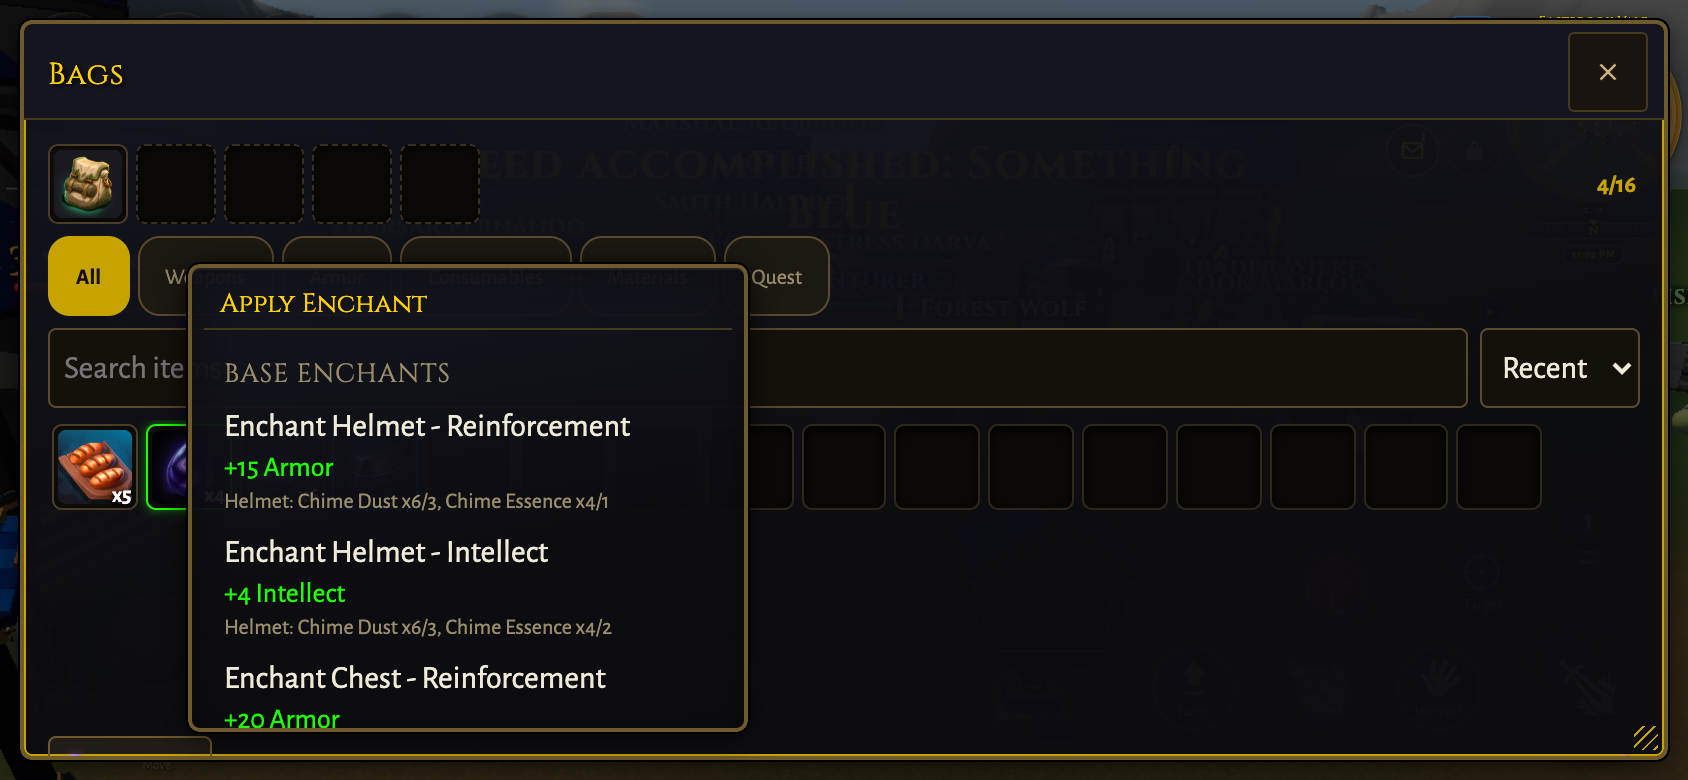
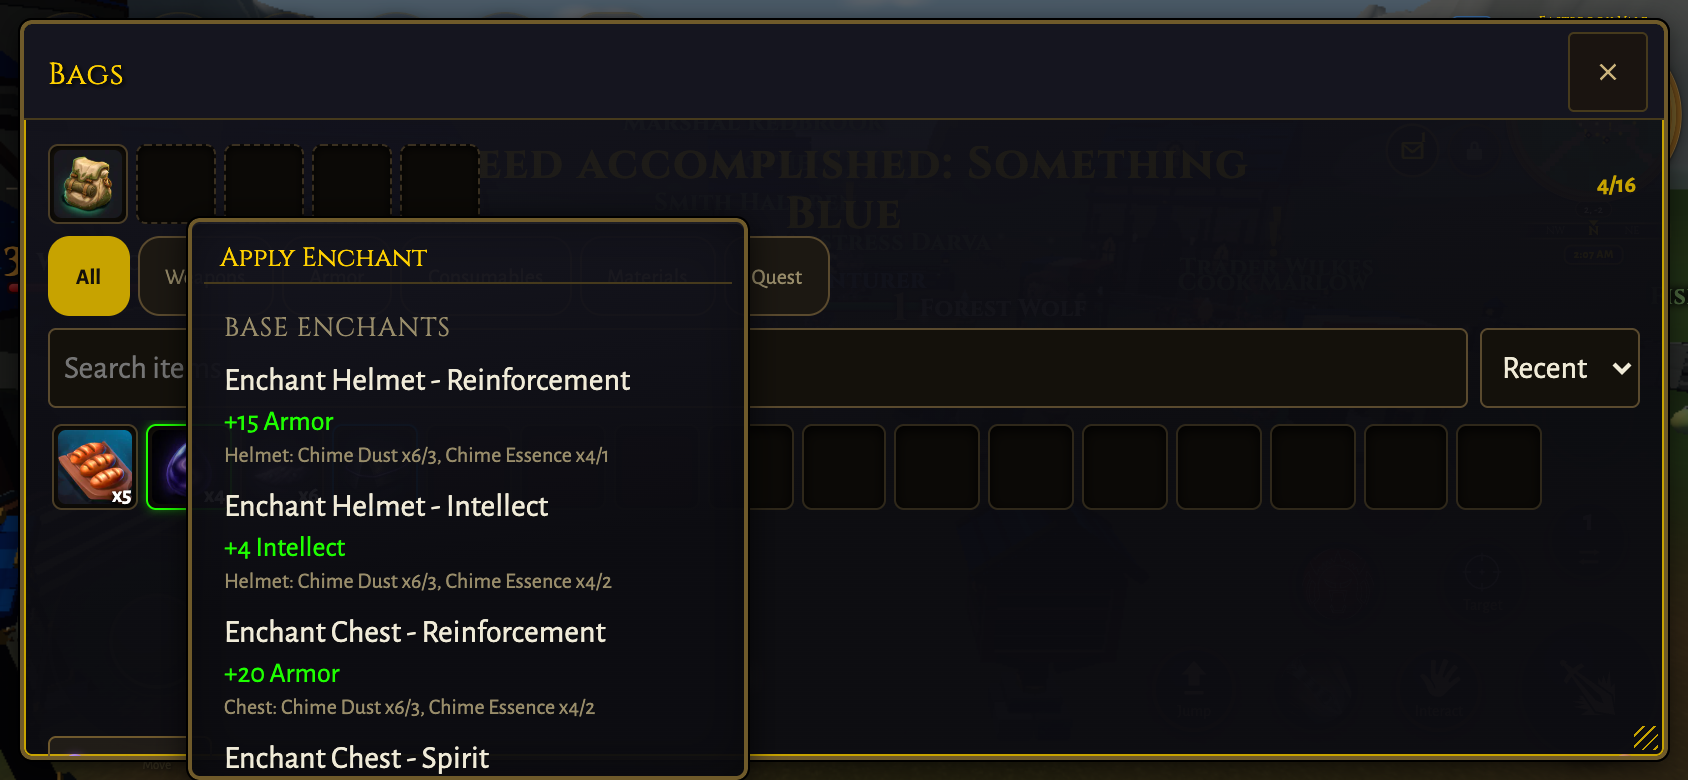
fix(ui): act on the #2404 review nits
Raises the mobile picker cap from 0.6 to 0.72 of the app viewport. The
review flagged that a picker row now carries three lines, so the original
fraction showed barely two and a half rows on a landscape phone; 0.72
shows three full rows plus the start of a fourth, and is still a genuine
fraction well short of the full-height box the cap exists to prevent.
The updated mobile screenshot shows the difference.

Pins the reagent UNIVERSE the tier rules recognize, rather than trusting
the id naming convention the review called out as silently
misclassifiable. A reagent that is neither the shard, a resonant, nor a
known base material now fails the guard loudly at the point where
enchantTier would have quietly read it as Base, with the failure message
naming the enchant and the fix. Verified the guard actually reds on an
off-convention reagent rather than being decorative.

Changed region(s): [[0.0924, 0.4615, 0.4621, 1.0], [0.0924, 0.2769, 0.4621, 0.4308]]

diff --git a/tests/enchant_apply_view.test.ts b/tests/enchant_apply_view.test.ts
@@ -153,6 +153,46 @@ describe('enchant_apply_view: tier classification', () => {
   it('an unknown enchant id falls back to Base rather than throwing', () => {
     expect(enchantTier('not_a_real_enchant')).toBe('base');
   });
+
+  // Review nit (#2404): the tier is inferred from reagent ids rather than an
+  // explicit EnchantDef field, so a future reagent that follows neither
+  // convention would silently read as Base. Pin the reagent UNIVERSE instead of
+  // trusting the convention: adding a reagent that is neither the shard, a
+  // resonant, nor a known base material fails HERE, loudly, at the point where
+  // the classification would have gone quietly wrong. Extend the list only
+  // together with the enchantTier arm that classifies the new material.
+  it('every enchant reagent is a material the tier rules actually recognize', () => {
+    const KNOWN_BASE_REAGENTS = new Set(['arcane_dust', 'arcane_essence']);
+    const unclassifiable: string[] = [];
+    for (const enchant of Object.values(ENCHANTS)) {
+      for (const { itemId } of enchant.reagents) {
+        if (itemId === 'arcane_shard') continue;
+        if (itemId.startsWith('resonant_')) continue;
+        if (KNOWN_BASE_REAGENTS.has(itemId)) continue;
+        unclassifiable.push(`${enchant.id} -> ${itemId}`);
+      }
+    }
+    expect(
+      unclassifiable,
+      'these reagents match no tier rule and would silently classify as Base:\n' +
+        `${unclassifiable.join('\n')}\n` +
+        'Add the material to enchantTier (src/ui/enchant_apply_view.ts) and to this list.',
+    ).toEqual([]);
+  });
+
+  it('the two tier-marker reagents are still real, distinct items', () => {
+    // The rules key on these ids, so a rename in content must not leave the
+    // classification pointing at nothing.
+    expect(ITEMS.arcane_shard).toBeDefined();
+    const resonants = Object.keys(ITEMS).filter((id) => id.startsWith('resonant_'));
+    expect(resonants.length).toBeGreaterThan(0);
+    // And each tier is actually POPULATED, so a rename that silently emptied a
+    // tier (every row falling through to Base) fails here too.
+    const tiers = Object.keys(ENCHANTS).map(enchantTier);
+    expect(tiers).toContain('greater');
+    expect(tiers).toContain('runed');
+    expect(tiers).toContain('base');
+  });
 });
 
 describe('enchant_apply_view: enchantSectionsForReagent', () => {

diff --git a/src/styles/hud.mobile.css b/src/styles/hud.mobile.css
@@ -4094,7 +4094,12 @@
      app viewport, scaled like the base rule) and a bounded width; the box
      scrolls within it. */
   body.mobile-touch #ctx-menu.ctx-menu-picker {
-    max-height: calc(var(--app-vh, 100vh) / var(--ui-scale, 1) * 0.6);
+    /* 0.72, raised from 0.6: a picker row carries three lines now (name, effect,
+       slot + reagents), so the original fraction showed barely two and a half
+       rows on a landscape phone. Still a genuine fraction of the viewport, well
+       short of the full-height box this cap exists to prevent, and the list
+       still scrolls. */
+    max-height: calc(var(--app-vh, 100vh) / var(--ui-scale, 1) * 0.72);
     min-width: 280px;
     max-width: min(420px, 86vw);
     overflow-y: auto;
